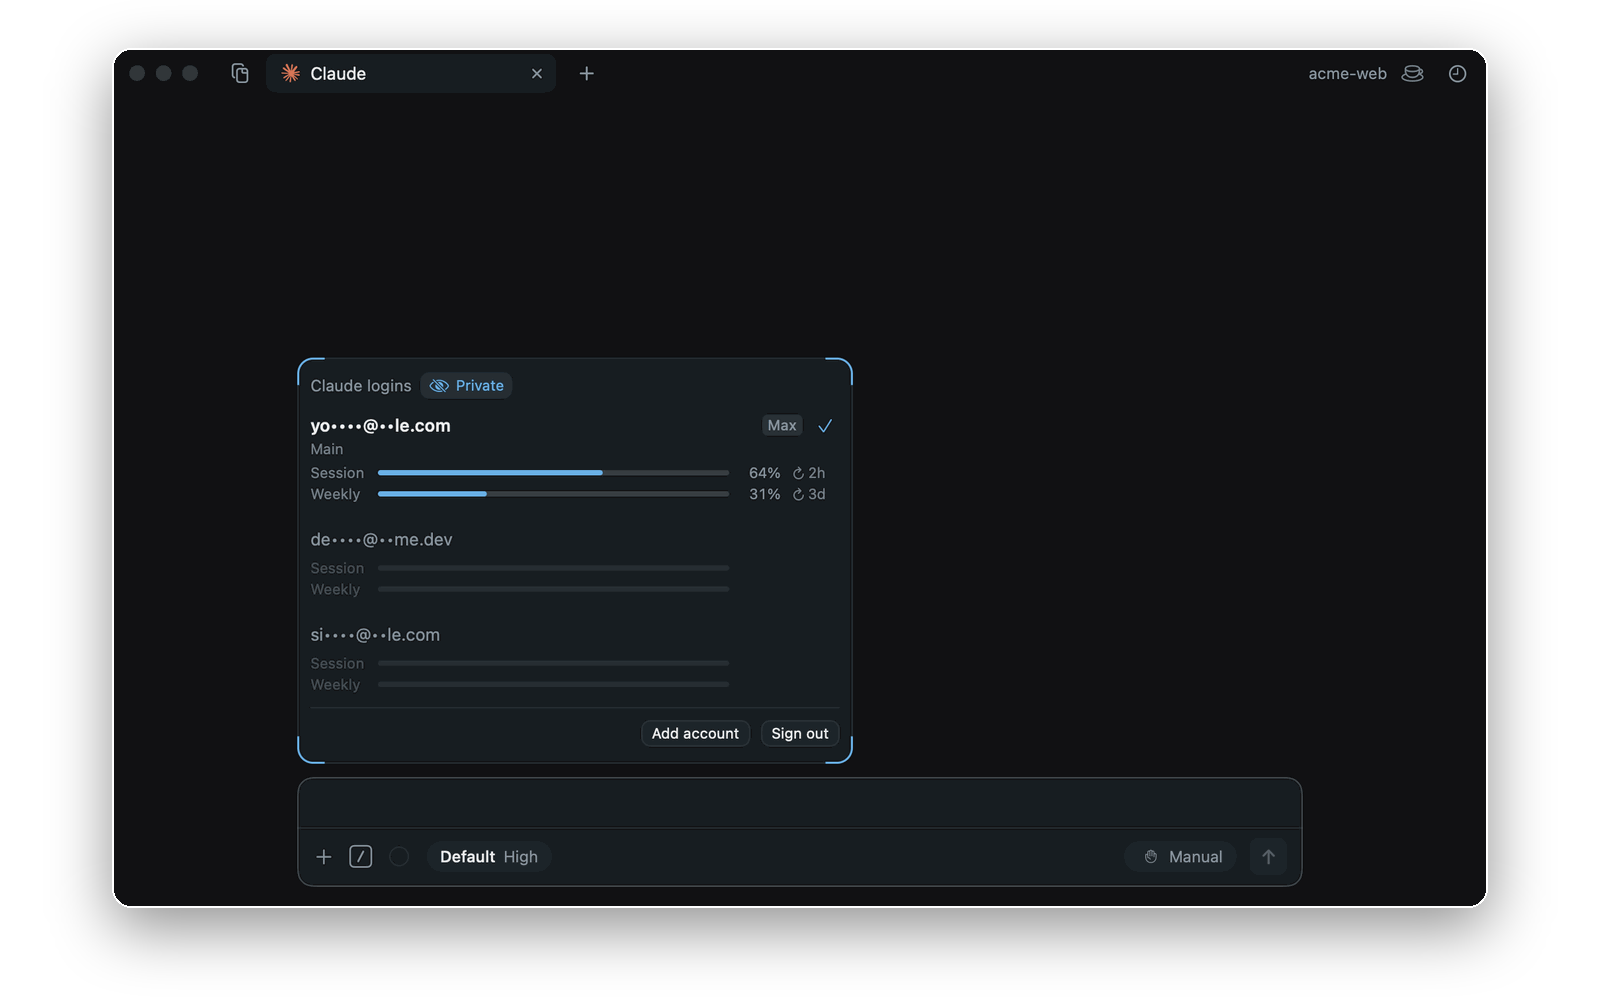
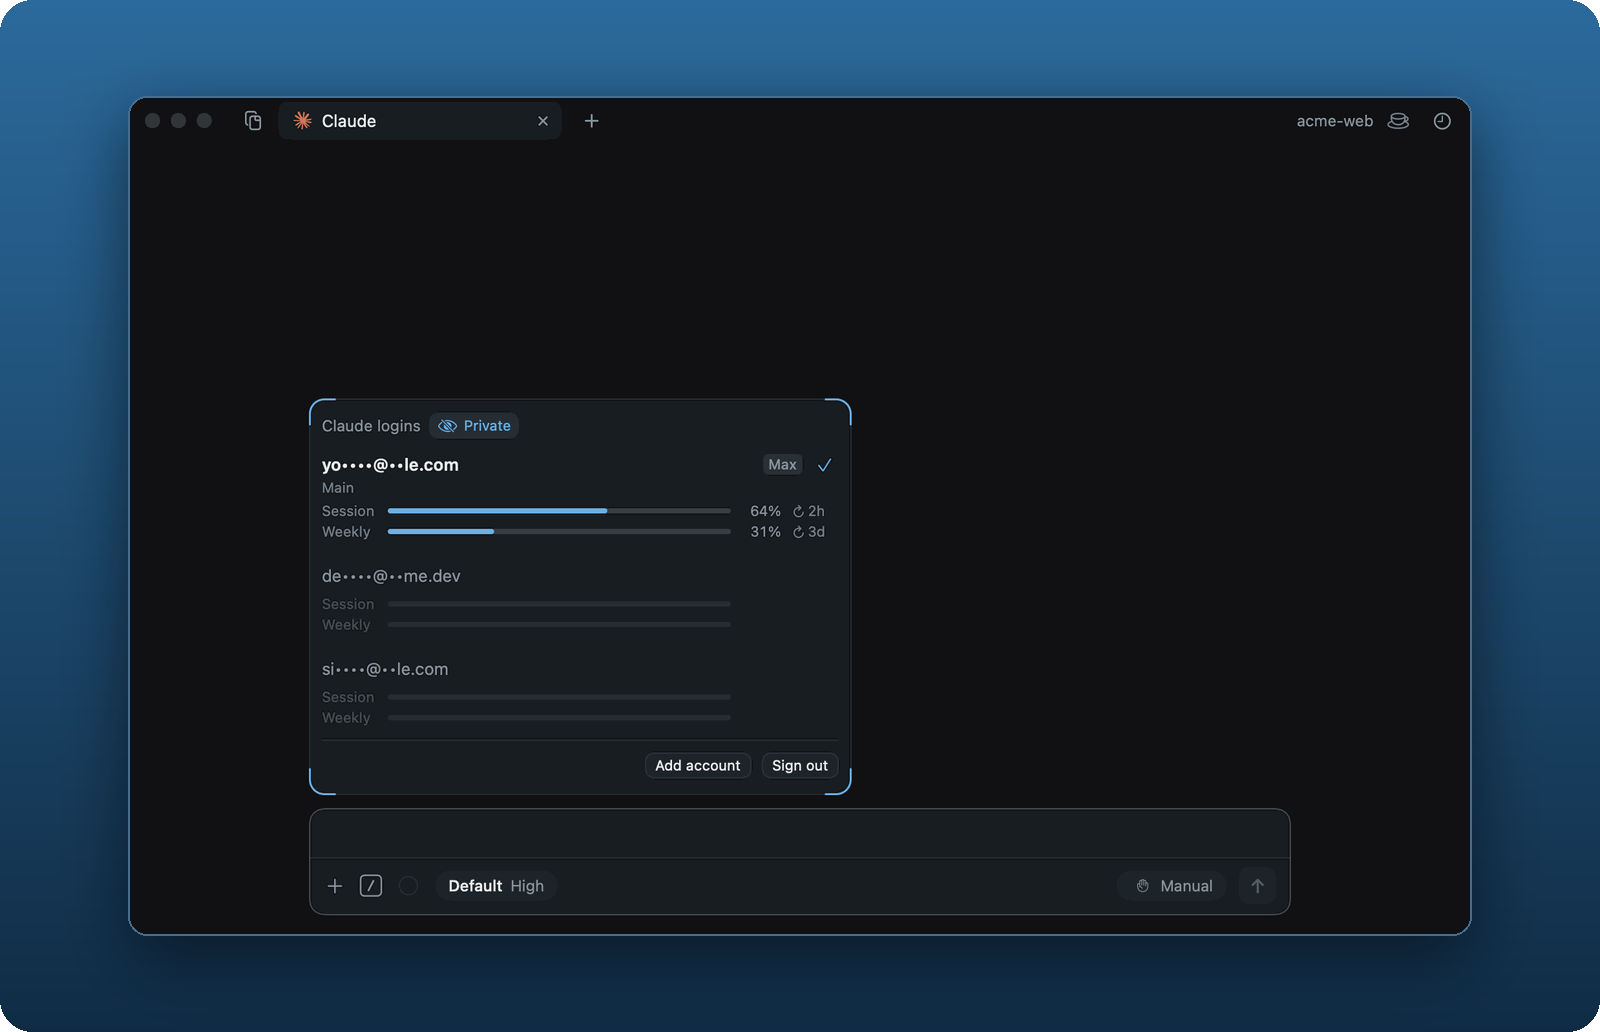
readme shots on blue card for dark mode

diff --git a/Sources/KoreStorylines/Catalogue/ReadmeStorylines.swift b/Sources/KoreStorylines/Catalogue/ReadmeStorylines.swift
@@ -111,8 +111,15 @@ final class ReadmePort: Storyline {
             ImportHistory("api-version-check.jsonl", lines: Readme.claudeChat),
             Send("Now add the same check to the iOS client"),
             Expect.rows("Codex's answer under the divider") { $0.last { $0.kind == "assistant" }?.text.hasPrefix("Done: the app") == true },
-            // The new turn's rows take a moment longer to lay out under the carried part.
-            Readme.Settle(for: .seconds(2)), Snapshot("port"),
+            // The model has it before the window draws it: wait for the answer's own row to be
+            // drawn inside the window. Only looks: a locator would unfold or scroll to it.
+            Expect("Codex's answer drawn in view", timeout: .seconds(10)) { story in
+                guard let window = story.window, let transcript = story.app.chat?.storyTranscript,
+                      let answer = transcript.entries.last(where: { $0.kind == .answer }),
+                      let frame = StoryElement(StoryID.Transcript.answer(answer.id), in: window)?.frame else { return false }
+                return window.contentView.map { $0.bounds.contains(frame) } ?? false
+            },
+            Readme.Settle(), Snapshot("port"),
         ]
     }
 }

diff --git a/scripts/frame-shots.py b/scripts/frame-shots.py
@@ -1,40 +1,54 @@
 #!/usr/bin/env python3
-"""Frames README screenshots as macOS windows: rounded corners, a hairline border and a soft
-shadow, on a transparent ground that sits on GitHub's light and dark pages alike.
+"""Frames README screenshots as macOS windows on a card in Kore's blue: the window with rounded
+corners, a hairline border and a soft shadow, on a rounded card that stands out on GitHub's
+light and dark pages alike.
 
     scripts/frame-shots.py <storyline output> <out dir> <name>...
 
 Needs Pillow. The window is reduced to a 256-colour palette first (the UI is flat colour, so
-nothing visible is lost) and the shadow stays smooth around it.
+nothing visible is lost); the card's gradient and the shadow stay smooth around it.
 """
 import sys
 from PIL import Image, ImageDraw, ImageFilter
 
 WIDTH = 1600
+TOP, BOTTOM = (0x2B, 0x6A, 0x9C), (0x10, 0x2C, 0x45)   # hue 206°, the logo's blue, light to deep
 
 
 def frame(src, dst):
     win = Image.open(src).convert("RGB")
-    k = WIDTH * 0.86 / win.width
+    k = WIDTH * 0.84 / win.width
     win = win.resize((round(win.width * k), round(win.height * k)), Image.LANCZOS)
-    win = win.quantize(colors=256, method=Image.Quantize.FASTOCTREE, dither=Image.Dither.NONE).convert("RGBA")
+    win = win.quantize(colors=256, method=Image.Quantize.FASTOCTREE, dither=Image.Dither.NONE).convert("RGB")
     w, h = win.size
     radius = round(WIDTH * 0.012)
-    left, top, bottom = (WIDTH - w) // 2, round(WIDTH * 0.03), round(WIDTH * 0.06)
-    canvas = Image.new("RGBA", (WIDTH, h + top + bottom), (0, 0, 0, 0))
+    left = (WIDTH - w) // 2
+    top = round(WIDTH * 0.06)
+    H = h + 2 * top
 
-    drop = round(WIDTH * 0.012)
-    shape = Image.new("L", canvas.size, 0)
-    ImageDraw.Draw(shape).rounded_rectangle((left, top + drop, left + w, top + h + drop), radius, fill=110)
-    shadow = Image.new("RGBA", canvas.size, (0, 0, 0, 0))
-    shadow.putalpha(shape.filter(ImageFilter.GaussianBlur(round(WIDTH * 0.018))))
-    canvas = Image.alpha_composite(canvas, shadow)
+    # The card: a top-to-bottom gradient (rows of one colour compress to almost nothing).
+    card = Image.new("RGB", (1, H))
+    for y in range(H):
+        t = y / (H - 1)
+        card.putpixel((0, y), tuple(round(TOP[i] + (BOTTOM[i] - TOP[i]) * t) for i in range(3)))
+    card = card.resize((WIDTH, H), Image.NEAREST)
+
+    drop = round(WIDTH * 0.014)
+    shape = Image.new("L", card.size, 0)
+    ImageDraw.Draw(shape).rounded_rectangle((left, top + drop, left + w, top + h + drop), radius, fill=150)
+    shade = shape.filter(ImageFilter.GaussianBlur(round(WIDTH * 0.02)))
+    card = Image.composite(Image.new("RGB", card.size, (4, 10, 16)), card, shade)
 
     mask = Image.new("L", (w, h), 0)
     ImageDraw.Draw(mask).rounded_rectangle((0, 0, w - 1, h - 1), radius, fill=255)
-    canvas.paste(win, (left, top), mask)
-    ImageDraw.Draw(canvas).rounded_rectangle((left, top, left + w - 1, top + h - 1), radius, outline=(255, 255, 255, 38), width=2)
-    canvas.save(dst, optimize=True)
+    card.paste(win, (left, top), mask)
+    ImageDraw.Draw(card).rounded_rectangle((left, top, left + w - 1, top + h - 1), radius, outline=(70, 110, 145), width=2)
+
+    out = card.convert("RGBA")
+    corners = Image.new("L", card.size, 0)
+    ImageDraw.Draw(corners).rounded_rectangle((0, 0, WIDTH - 1, H - 1), round(WIDTH * 0.02), fill=255)
+    out.putalpha(corners)
+    out.save(dst, optimize=True)
 
 
 if __name__ == "__main__":
